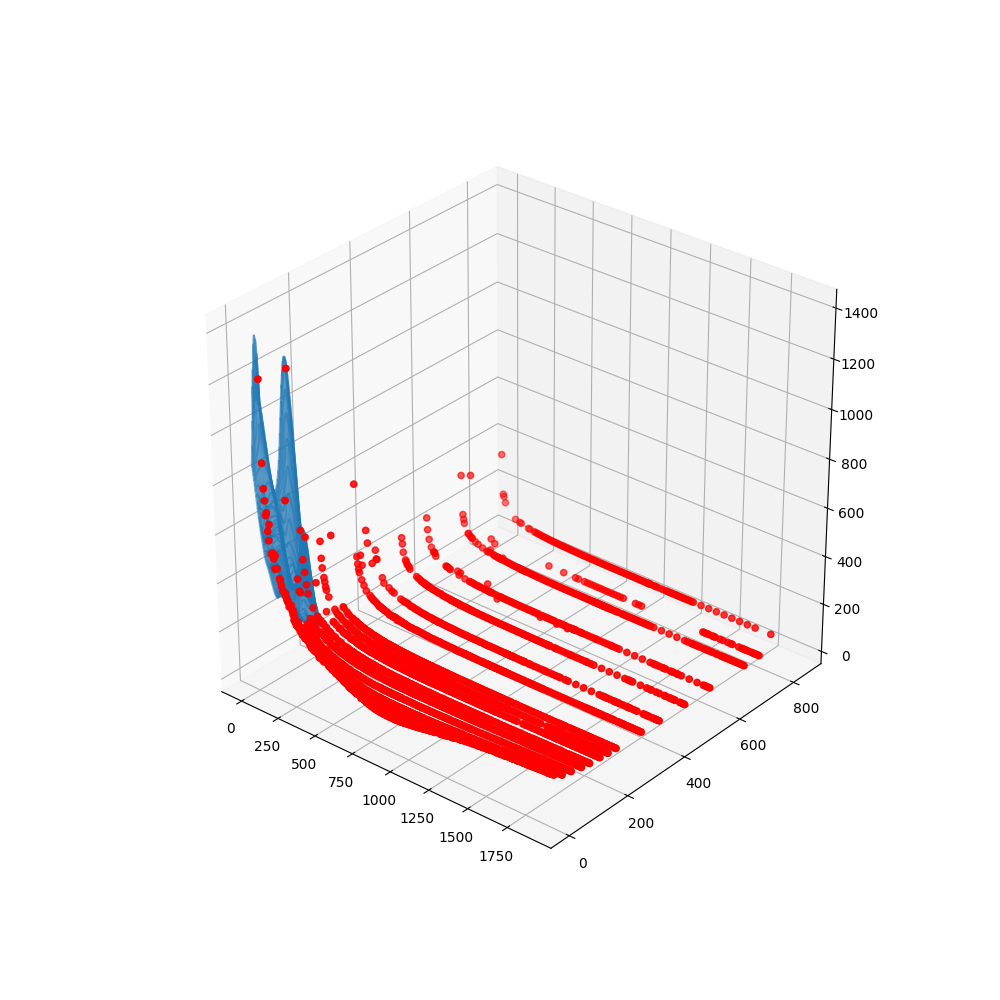
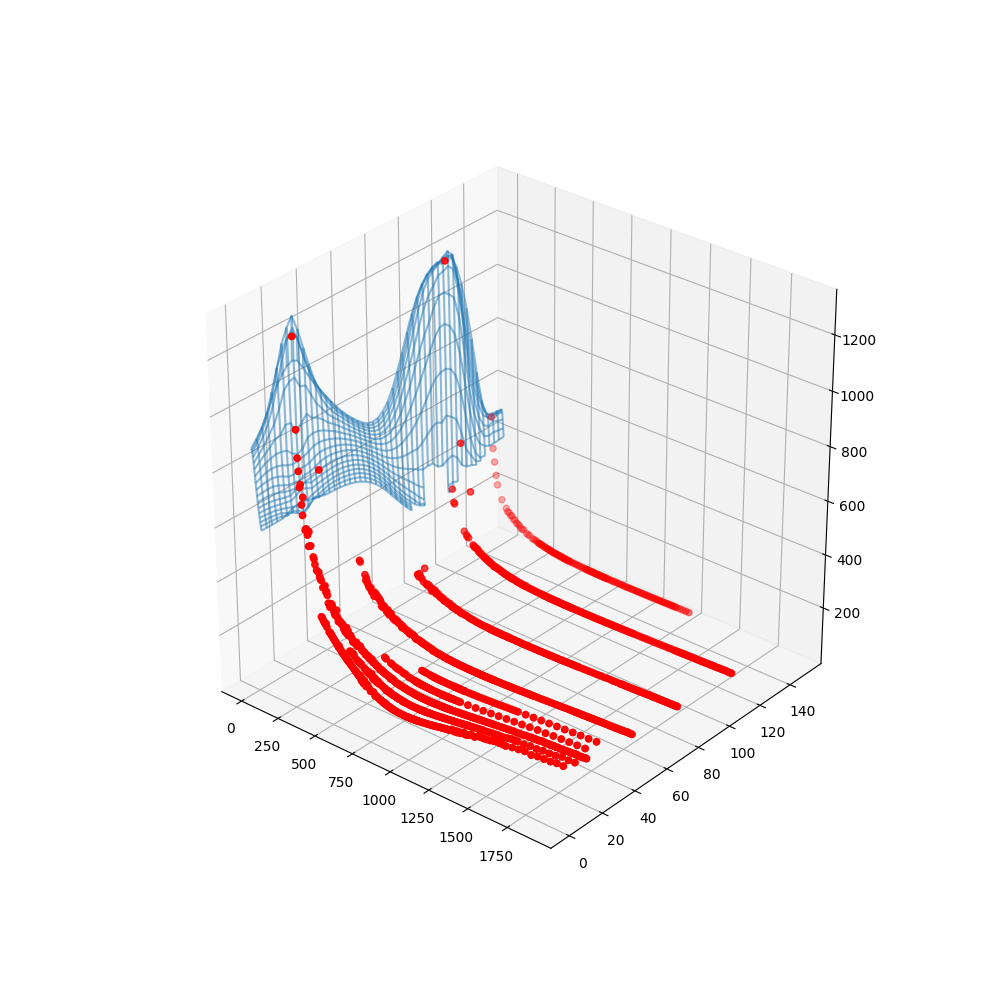
Added mlp, rf, gbd, and voting regressor. Output images as well

diff --git a/regression.py b/regression.py
@@ -1,0 +1,114 @@
+from sklearn.ensemble import RandomForestRegressor
+from sklearn.ensemble import GradientBoostingRegressor
+from sklearn.ensemble import VotingRegressor
+from sklearn.neural_network import MLPRegressor
+from sklearn.model_selection import train_test_split
+import pandas as pd
+import numpy as np
+
+from mpl_toolkits.mplot3d import Axes3D  # noqa: F401 unused import
+
+import matplotlib.pyplot as plt
+from matplotlib import cm
+from matplotlib.ticker import LinearLocator, FormatStrFormatter
+
+xs_list = []
+ys_list = []
+zs_list = []
+
+n = 100
+
+datess = ['03/06/2020','03/13/2020','03/20/2020','03/27/2020','04/03/2020','04/17/2020','05/15/2020','06/19/2020','07/17/2020','08/21/2020','09/18/2020','10/16/2020','01/15/2021','03/19/2021','06/18/2021','09/17/2021','01/21/2022','03/18/2022','06/17/2022']
+f_datess = []
+for i in range(len(datess)):
+    d = datess[i]
+    temp = d[6:] + '-' + d[:2] + '-' + d[3:5]
+    f_datess.append(temp)
+# For each set of style and range settings, plot n random points in the box
+# defined by x in [23, 32], y in [0, 100], z in [zlow, zhigh].
+for j in range(len(f_datess)):
+    for m, zlow, zhigh in [('o', -50, -25), ('^', -30, -5)]:
+        data = pd.read_csv('calls' + f_datess[j] + '.csv')
+        data = data[data['Implied Volatility'] != 0]
+        xs = data['Strike'].tolist()
+        ys = data['Maturity'].tolist()
+        zs = data['Implied Volatility'].tolist()
+        xs_list = xs_list + xs
+        ys_list = ys_list + ys
+        zs_list = zs_list + zs
+
+temp = np.column_stack((xs_list, ys_list))
+# regr = MLPRegressor(hidden_layer_sizes=100, activation='relu') MLP Performs significantly worse than RandomForest
+# regr = RandomForestRegressor(max_depth=200, random_state=0)
+regr = GradientBoostingRegressor()
+# regr = VotingRegressor(estimators=[('gb', reg2), ('rf', reg1)])
+x_train, x_test, y_train, y_test = train_test_split(temp, zs_list, test_size = 0.01)
+
+regr.fit(x_train, y_train)
+
+ymin = 10
+ymax = 800
+yinc = 10
+
+xmin = 350
+xmax = 2000
+xinc = 25
+
+X = np.arange(xmin, xmax, xinc)
+Y = np.arange(ymin, ymax, yinc)
+
+X, Y = np.meshgrid(X, Y)
+
+x = np.ndarray.flatten(X)
+y = np.ndarray.flatten(Y)
+xtest = np.stack((x, y), axis=-1)
+
+
+
+predict = regr.predict(xtest)
+
+# pred = np.ndarray.squeeze(predict, axis=1)
+pred = np.reshape(predict, (int((ymax-ymin)/yinc),int((xmax-xmin)/xinc)))
+
+print(pred)
+
+fig1 = plt.figure()
+ax1 = fig1.gca(projection='3d')
+
+# Make data.
+# Plot the surface.
+surf1 = ax1.plot_surface(X, Y, pred, cmap=cm.coolwarm,
+                       linewidth=0, antialiased=False)
+
+# Customize the z axis.
+ax1.set_zlim(0, 250)
+ax1.zaxis.set_major_locator(LinearLocator(10))
+ax1.zaxis.set_major_formatter(FormatStrFormatter('%.02f'))
+
+# Add a color bar which maps values to colors.
+fig1.colorbar(surf1, shrink=0.5, aspect=5)
+
+plt.savefig('images/gbdregression.png')
+
+# fig = plt.figure()
+# ax = fig.gca(projection='3d')
+
+# # Make data.
+# X = np.arange(0, 2, 0.1)
+# Y = np.arange(0, 2, 0.1)
+# x, y = np.meshgrid(X, Y)
+# Z = .3*(.1*x**3+.2*y**2+.1*x*y +.5*x+.5*y)-.5
+
+# # Plot the surface.
+# surf = ax.plot_surface(X, Y, Z, cmap=cm.coolwarm,
+#                        linewidth=0, antialiased=False)
+
+# # Customize the z axis.
+# ax.set_zlim(-1.01, 1.01)
+# ax.zaxis.set_major_locator(LinearLocator(10))
+# ax.zaxis.set_major_formatter(FormatStrFormatter('%.02f'))
+
+# # Add a color bar which maps values to colors.
+# fig.colorbar(surf, shrink=0.5, aspect=5)
+
+# plt.show()

diff --git a/fitting.py b/fitting.py
@@ -36,19 +36,21 @@ for j in range(len(f_datess)):
         ys_list = ys_list + ys
         zs_list = zs_list + zs
 
-real_data = []
+epic = []
+
 for x in range(len(xs_list)):
     listy=[]
     listy.append(xs_list[x])
     listy.append(ys_list[x])
     listy.append(zs_list[x])
-    real_data.append(listy)
+    epic.append(listy)
 
-real_data = np.array(real_data)
+epic = np.array(epic)
+real_data = epic[:3000]
 print(real_data)
 interpolationmethod = 'cubic'
 p = 2
-extrapolation_interval = 30
+extrapolation_interval = 10
 
 
 def main():
@@ -138,7 +140,7 @@ def kriging(data, extrapolation_spots):
     # the enable_plotting kwarg controls the display of the semivariogram.
     OK = OrdinaryKriging(data[:, 0], data[:, 1], data[:, 2], variogram_model='spherical',
                                  verbose=False, nlags=100)
-
+    
     # Creates the kriged grid and the variance grid. Allows for kriging on a rectangular
     # grid of points, on a masked rectangular grid of points, or with arbitrary points.
     # (See OrdinaryKriging.__doc__ for more information.)

diff --git a/graph.py b/graph.py
@@ -36,6 +36,9 @@ for j in range(len(f_datess)):
         zs_list = zs_list + zs
 
 ax.scatter(xs_list, ys_list, zs_list)
+print(len(xs_list))
+print(len(ys_list))
+print(len(zs_list))
 
 ax.set_xlabel('Stike')
 ax.set_ylabel('Maturity')
